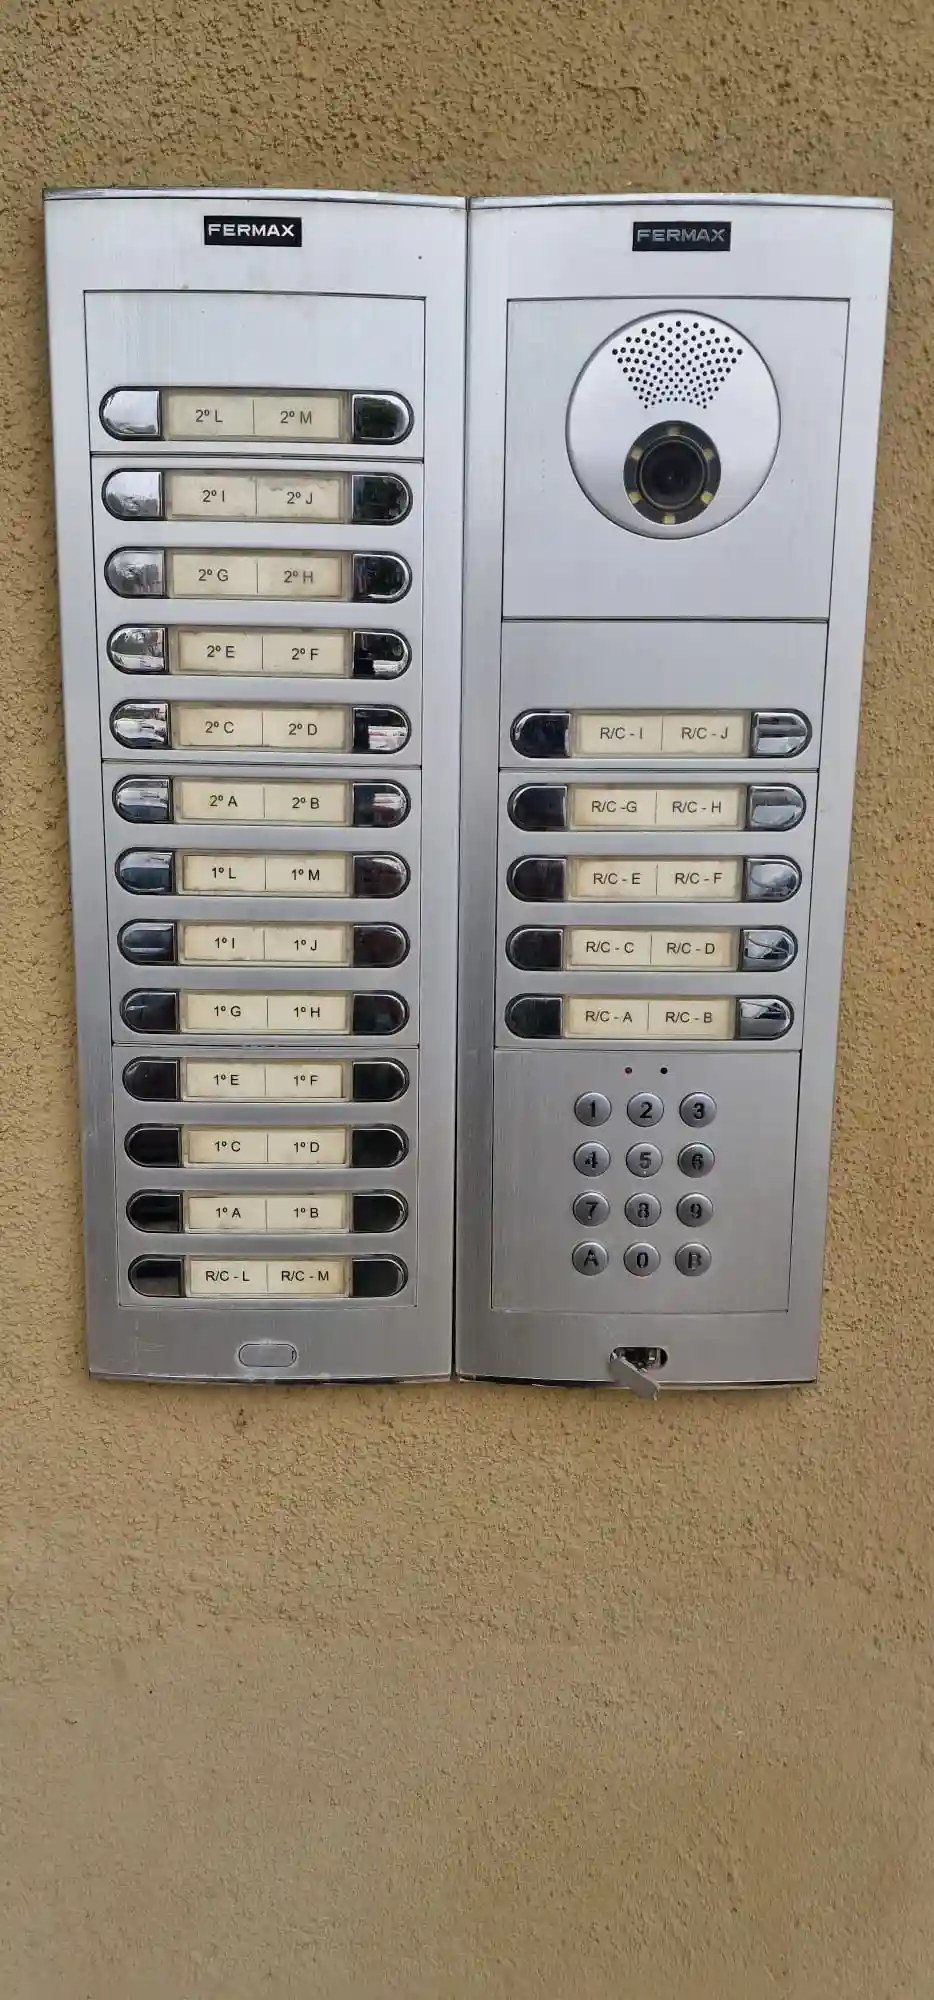
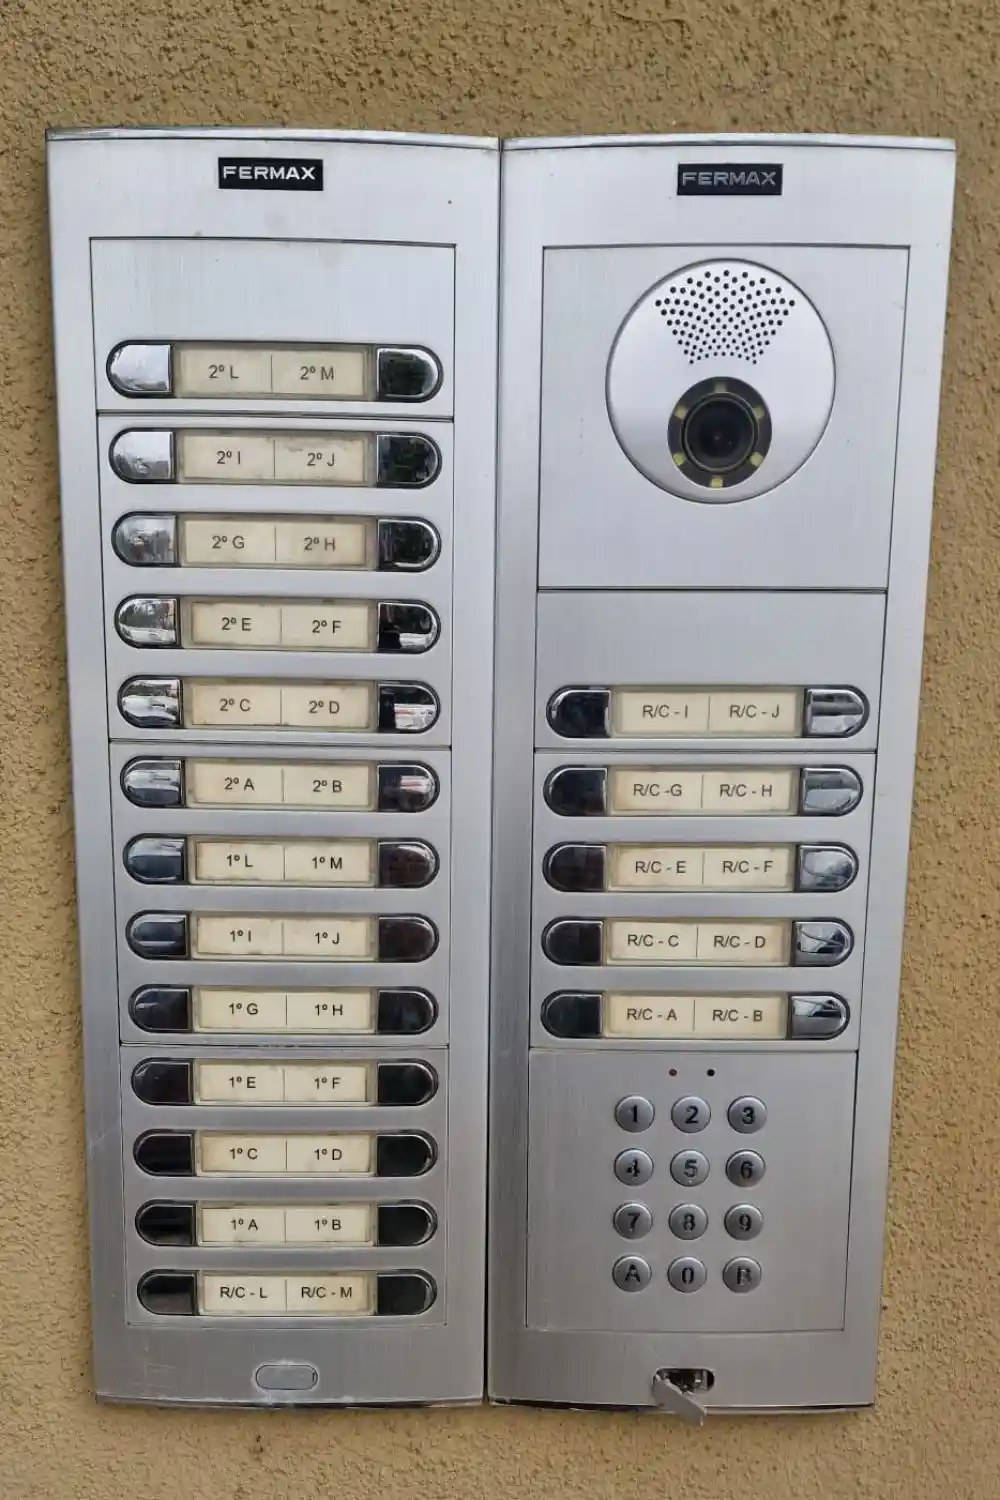
Replace the first two Access Control description photos
Swaps the "What's Included" and "Why It Matters" photos for cleaner,
uncropped shots of the same intercom system — the included photo now
shows the full panel (camera + keypad), and the why-it-matters photo
drops the tape/protective-wrap edges visible in the previous shot.
Scenarios and In Detail photos are untouched.

Claude-Session: https://claude.ai/code/session_01ShDaj7qu5cJMGTYhHPk2St

diff --git a/public/access-control/index.html b/public/access-control/index.html
@@ -115,7 +115,7 @@
         <div class="two-col-media">
           <picture class="photo-frame ratio-tall">
     <source type="image/webp" srcset="/assets/images/access-control-intercom-panel.webp">
-    <img src="/assets/images/access-control-intercom-panel.jpg" alt="Video intercom panel installed beside a gated apartment entrance in the Algarve" loading="lazy">
+    <img src="/assets/images/access-control-intercom-panel.jpg" alt="Video intercom access control unit installed at an Algarve apartment building entrance" loading="lazy">
   </picture>
         </div>
       </div></div>
@@ -128,7 +128,7 @@
         <div class="two-col-media">
           <picture class="photo-frame ratio-tall">
     <source type="image/webp" srcset="/assets/images/access-control-system-installed.webp">
-    <img src="/assets/images/access-control-system-installed.jpg" alt="Video intercom and camera system newly installed at an Algarve property entrance" loading="lazy">
+    <img src="/assets/images/access-control-system-installed.jpg" alt="Video intercom camera and panel installed professionally at an Algarve property entrance" loading="lazy">
   </picture>
         </div>
         <div class="two-col-text">

diff --git a/src/templates/service.js b/src/templates/service.js
@@ -87,12 +87,12 @@ const SERVICE_DESCRIPTION_PHOTO = {
     included: {
       webp: '/assets/images/access-control-intercom-panel.webp',
       jpg: '/assets/images/access-control-intercom-panel.jpg',
-      alt: 'Video intercom panel installed beside a gated apartment entrance in the Algarve',
+      alt: 'Video intercom access control unit installed at an Algarve apartment building entrance',
     },
     whyItMatters: {
       webp: '/assets/images/access-control-system-installed.webp',
       jpg: '/assets/images/access-control-system-installed.jpg',
-      alt: 'Video intercom and camera system newly installed at an Algarve property entrance',
+      alt: 'Video intercom camera and panel installed professionally at an Algarve property entrance',
     },
     scenarios: {
       webp: '/assets/images/access-control-keypad.webp',
